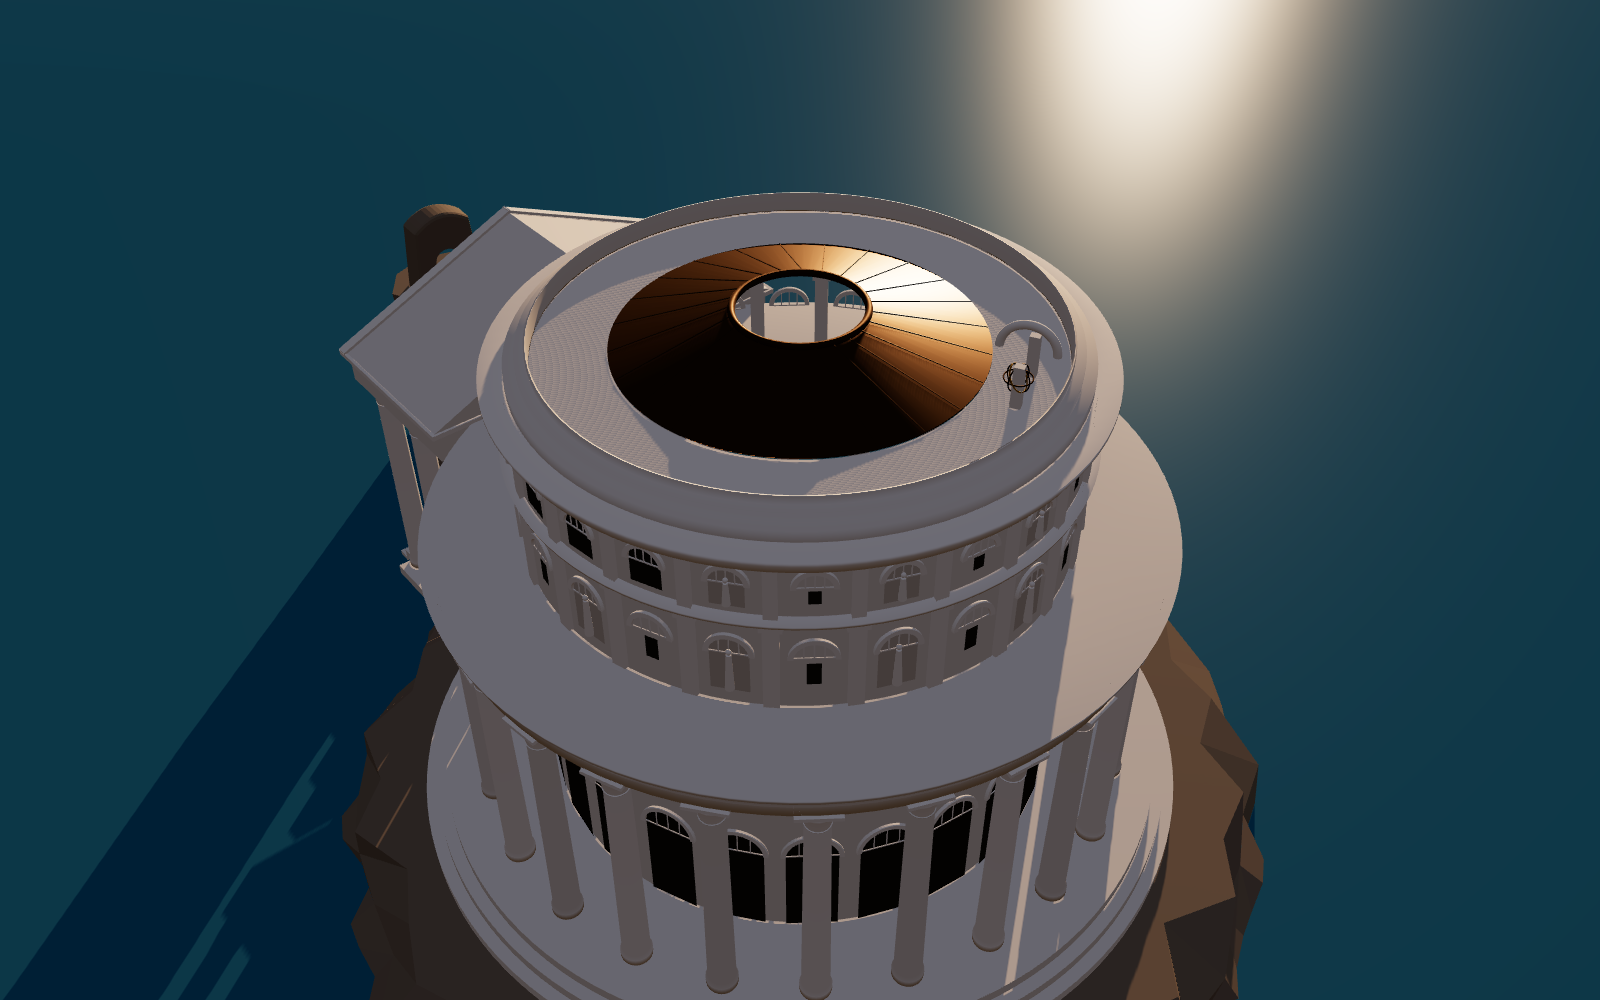
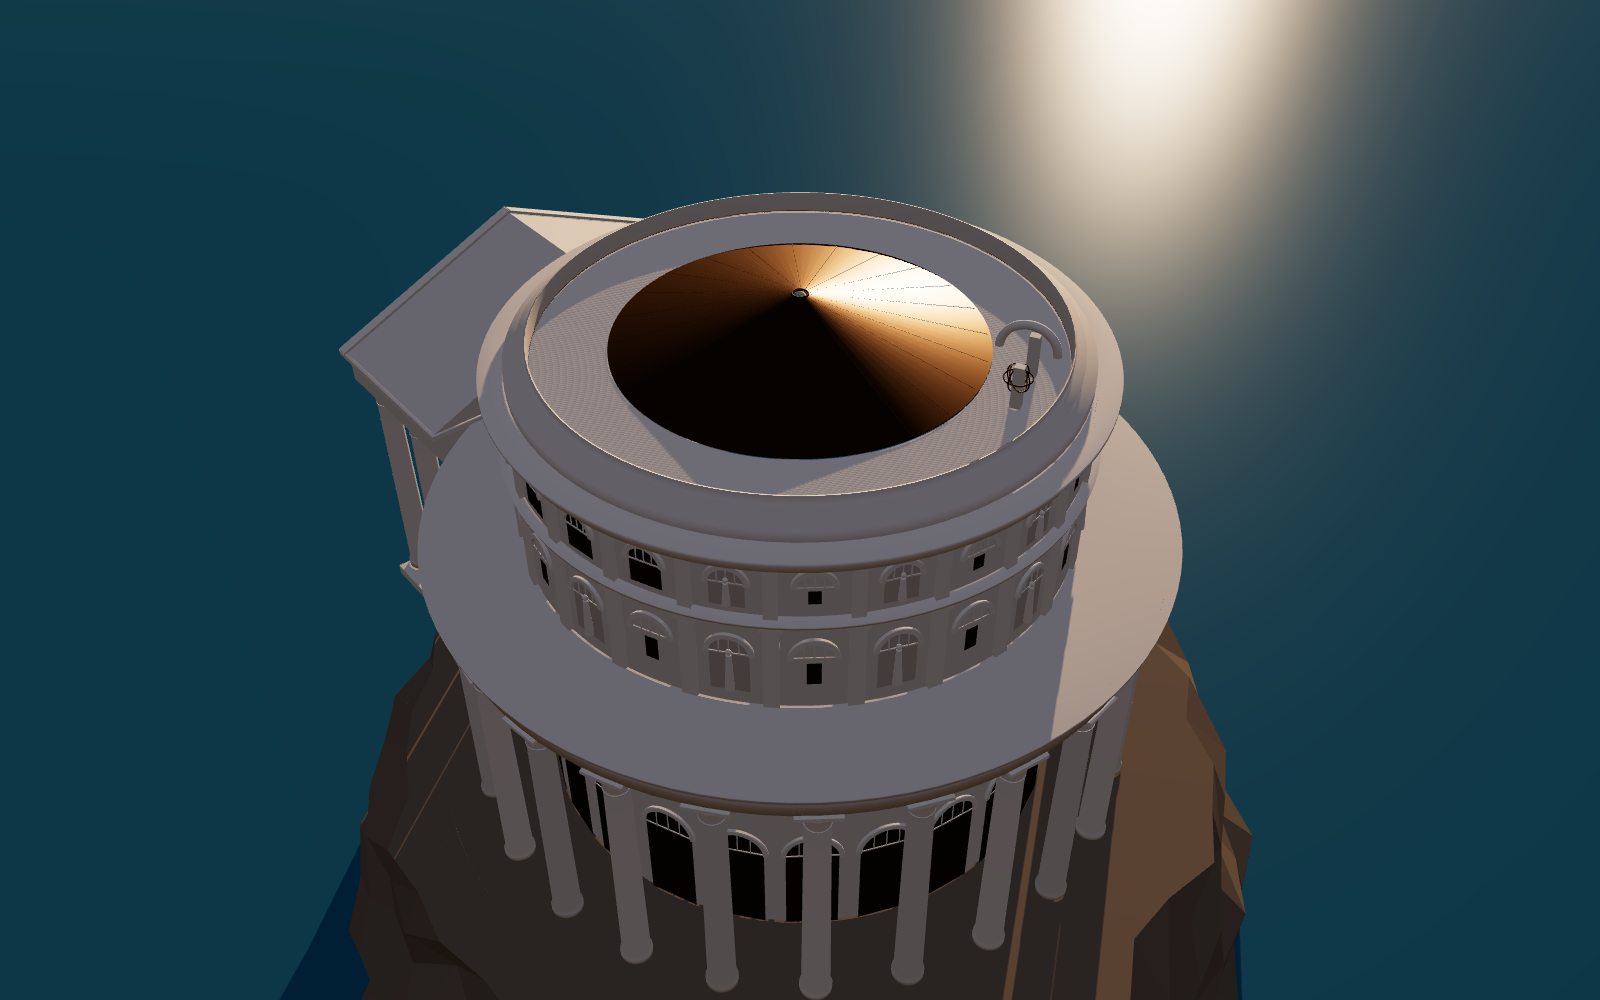
Massing model: temple on a cliff, low island to the north, sea gate beam, iris nearly closed; fixed time on the island
Claude-Session: https://claude.ai/code/session_0171D8K9nqfo8Qytrb4zsdXi

diff --git a/docs/img/exterior-model.html b/docs/img/exterior-model.html
@@ -14,7 +14,7 @@ function sunDir(Hd) { const h = Hd * DEG, dec = -21 * DEG, lat = 35 * DEG;
   const E = -Math.cos(dec) * Math.sin(h), N = Math.sin(dec) * Math.cos(lat) - Math.cos(dec) * Math.cos(h) * Math.sin(lat), U = Math.sin(dec) * Math.sin(lat) + Math.cos(dec) * Math.cos(h) * Math.cos(lat);
   return new V3(E, U, -N).normalize(); }
 const warm = view !== 'b';
-const sv = sunDir(warm ? 58 : 12);
+const sv = sunDir(warm ? 58 : 10);
 scene.add(new THREE.Mesh(new THREE.SphereGeometry(3000, 48, 24), new THREE.ShaderMaterial({ side: THREE.BackSide, depthWrite: false,
   uniforms: { uSun: { value: sv }, uWarm: { value: warm ? 1 : 0.2 } },
   vertexShader: `varying vec3 vD; void main(){ vD = normalize(position); gl_Position = projectionMatrix*modelViewMatrix*vec4(position,1.0); }`,
@@ -42,10 +42,10 @@ const lathe = (pts, seg = 96) => new THREE.LatheGeometry(pts.map(([r, y]) => new
 const RO = 17.1, F = [0, 11.34, 19.84, 26.22, 31.0];
 const RP = 21.6, NCOL = 24, CD = 1.76, CH = 17.6;          // 外圈巨柱：科林斯，柱高 10D，檐部顶面对齐 L2 楼面
 // 海、礁石台基
-add(new THREE.Mesh(new THREE.CircleGeometry(3000, 64).rotateX(-Math.PI / 2).translate(0, -6, 0), sea), false, true);
-{ const g = new THREE.CylinderGeometry(30, 36, 7, 44, 3); const p = g.attributes.position;
+add(new THREE.Mesh(new THREE.CircleGeometry(3000, 64).rotateX(-Math.PI / 2).translate(0, -16, 0), sea), false, true);
+{ const g = new THREE.CylinderGeometry(28.5, 31, 16.5, 44, 5); const p = g.attributes.position;
   for (let i = 0; i < p.count; i++) { const x = p.getX(i), z = p.getZ(i), y = p.getY(i); const n = 1 + 0.07 * Math.sin(x * 0.6 + y) * Math.cos(z * 0.45); p.setX(i, x * n); p.setZ(i, z * n); }
-  g.computeVertexNormals(); add(new THREE.Mesh(g.translate(0, -5.9, 0), rock)); }
+  g.computeVertexNormals(); add(new THREE.Mesh(g.translate(0, -8.1, 0), rock)); }
 // 基座台阶（crepidoma）
 for (const [r, y] of [[26.4, -2.4], [25.6, -1.6], [24.8, -0.8]]) add(new THREE.Mesh(new THREE.CylinderGeometry(r, r, 0.8, 128).translate(0, y + 0.4, 0), marble));
 // 殿身（圆形内殿）
@@ -94,10 +94,10 @@ add(new THREE.Mesh(lathe([[RP - 1.1, CH], [RP + 1.1, CH], [RP + 1.1, CH + 0.9], 
 add(new THREE.Mesh(lathe([[RO, F[4] - 0.8], [RO + 0.9, F[4] - 0.7], [RO + 1.3, F[4]], [RO + 1.3, F[4] + 0.3], [RO - 0.2, F[4] + 0.3]]), marbleL));
 add(new THREE.Mesh(lathe([[RO - 0.2, 31.3], [RO - 0.2, 32.0], [16.2, 32.0], [16.2, 32.6], [15.6, 32.6], [15.6, 33.1], [15.45, 33.1], [15.45, 31.3]]), marble));
 add(new THREE.Mesh(lathe([[11, 31.9], [15.45, 31.9], [15.45, 31.8], [11, 31.8]]), marbleL));               // 环道（静止时是平的）
-{ const iris = lathe([[3.9, 33.9], [11, 31.85], [11, 31.95], [3.9, 34.0]], 96); add(new THREE.Mesh(iris, bronze));
+{ const iris = lathe([[0.4, 34.9], [11, 31.85], [11, 31.95], [0.4, 35.0]], 96); add(new THREE.Mesh(iris, bronze));
   for (let k = 0; k < 24; k++) { const a = k * 15; const g = new THREE.BoxGeometry(0.06, 0.06, 7.4); const m = new THREE.Mesh(g, bronze);
-    const mid = P(a + 6, 7.45, 33.0); m.position.copy(mid); m.lookAt(P(a + 14, 3.9, 34.05)); add(m); }
-  add(new THREE.Mesh(new THREE.TorusGeometry(3.9, 0.22, 12, 64).rotateX(Math.PI / 2).translate(0, 34.05, 0), bronze)); }
+    g.dispose(); m.geometry = new THREE.BoxGeometry(0.06, 0.06, 10.6); const mid = P(a + 8, 5.7, 33.45); m.position.copy(mid); m.lookAt(P(a + 22, 0.45, 34.95)); add(m); }
+  add(new THREE.Mesh(new THREE.TorusGeometry(0.45, 0.08, 8, 32).rotateX(Math.PI / 2).translate(0, 35.0, 0), bronze)); }
 // 最高一级（西北偏北）：拱门与大浑天仪
 { const az = 332, c = P(az, 13.2, 31.9), n = new V3(Math.cos(az * DEG), 0, Math.sin(az * DEG));
   for (const s of [-1, 1]) { const pier = new THREE.Mesh(new THREE.BoxGeometry(0.5, 2.6, 0.6), marbleL); pier.position.copy(c).addScaledVector(n, s * 1.6).setY(33.2); pier.rotation.y = -az * DEG; add(pier); }
@@ -118,25 +118,36 @@ add(new THREE.Mesh(lathe([[11, 31.9], [15.45, 31.9], [15.45, 31.8], [11, 31.8]])
   const ped = new THREE.Mesh(new THREE.ExtrudeGeometry(tri, { depth: depth1 - depth0 + 2.6, bevelEnabled: false }), marble); ped.position.set(0, F[2] + 0.25, depth0 - 1); add(ped);
   for (const s of [-1, 1]) { const rake = new THREE.Mesh(new THREE.BoxGeometry(15.9, 0.4, 0.8), marbleL); rake.position.set(s * 7.15, F[2] + 3.35, depth1 + 1.4); rake.rotation.z = -s * Math.atan(6.2 / 14.3); add(rake); }
   const floor = new THREE.Mesh(new THREE.BoxGeometry(28.5, 0.8, 12), marble); floor.position.set(0, -0.4, depth0 + 5.2); add(floor);
-  for (let k = 0; k < 7; k++) { const st = new THREE.Mesh(new THREE.BoxGeometry(22, 0.8, 1.1), marble); st.position.set(0, -1.2 - k * 0.8, depth1 + 1.4 + k * 1.1); add(st); }
 }
-// 南边海上的石柱与天然石拱（序章）
-{ const az = 183, c = P(az, 52, 0);
-  const g = new THREE.CylinderGeometry(4.6, 6.0, 17, 9, 4); const p = g.attributes.position;
-  for (let i = 0; i < p.count; i++) { const x = p.getX(i), z = p.getZ(i), y = p.getY(i); const n = 1 + 0.12 * Math.sin(x * 1.3 + y) * Math.cos(z * 1.1); p.setX(i, x * n); p.setZ(i, z * n); }
-  g.computeVertexNormals(); const st = add(new THREE.Mesh(g, rock)); st.position.set(c.x, -6 + 8.5, c.z);
-  const fin = new THREE.Shape(); fin.moveTo(-2.8, 0); fin.lineTo(-2.3, 5.6); fin.quadraticCurveTo(0, 7.4, 2.3, 5.6); fin.lineTo(2.8, 0); fin.lineTo(-2.8, 0);
-  const hole = new THREE.Path(); hole.moveTo(-1.1, 0); hole.lineTo(-1.1, 2.4); hole.absarc(0, 2.4, 1.1, Math.PI, 0, true); hole.lineTo(1.1, 0); hole.lineTo(-1.1, 0); fin.holes.push(hole);
-  const fm = new THREE.Mesh(new THREE.ExtrudeGeometry(fin, { depth: 1.8, bevelEnabled: true, bevelSize: 0.3, bevelThickness: 0.3, bevelSegments: 2 }), rock);
-  fm.position.copy(P(az, 51.2, 11)); fm.rotation.y = Math.PI - az * DEG; add(fm); }
+// 北边低处的小岛、崖壁上的海门出口、出水，以及从海门穿出落到岛上的那束光（序章）
+{ const az = 12;
+  const g = new THREE.CylinderGeometry(4.5, 6.5, 3.2, 10, 2); const p = g.attributes.position;
+  for (let i = 0; i < p.count; i++) { const x = p.getX(i), z = p.getZ(i), y = p.getY(i); const n = 1 + 0.15 * Math.sin(x * 1.7 + y) * Math.cos(z * 1.3); p.setX(i, x * n); p.setZ(i, z * n); }
+  g.computeVertexNormals(); const isl = add(new THREE.Mesh(g, rock)); isl.position.copy(P(az, 45, -15.2));
+  // 海门出口：崖壁上的拱洞
+  const door = new THREE.Mesh(new THREE.ShapeGeometry(archShape(3.2, 2.4), 16), shade); door.position.copy(P(az, 29.7, -7.4)); door.rotation.y = Math.PI - az * DEG; door.rotation.x = -0.18; add(door);
+  const ring = new THREE.Shape(); ring.moveTo(-2.1, 2.4); ring.absarc(0, 2.4, 2.1, Math.PI, 0, true); ring.lineTo(1.6, 2.4); ring.absarc(0, 2.4, 1.6, 0, Math.PI, false); ring.lineTo(-2.1, 2.4);
+  const rm = new THREE.Mesh(new THREE.ExtrudeGeometry(ring, { depth: 0.5, bevelEnabled: false }), marble); rm.position.copy(P(az, 29.6, -7.4)); rm.rotation.y = Math.PI - az * DEG; rm.rotation.x = -0.18; add(rm);
+  // 出水：从海门旁泻进海里
+  const fall = new THREE.Mesh(new THREE.PlaneGeometry(2.2, 10), new THREE.MeshStandardMaterial({ color: 0xcfe6ee, transparent: true, opacity: 0.75, roughness: 0.2 }));
+  fall.position.copy(P(az + 6, 30.6, -11.0)); fall.rotation.y = Math.PI - (az + 6) * DEG; fall.rotation.x = -0.25; add(fall, false, false);
+  for (let k = 0; k < 40; k++) { const sp = new THREE.Mesh(new THREE.SphereGeometry(0.35 + (k % 3) * 0.15, 6, 4), new THREE.MeshBasicMaterial({ color: 0xffffff, transparent: true, opacity: 0.35 })); sp.position.copy(P(az + 4 + (k * 7) % 11 - 5, 31 + (k * 5) % 12, -15.7 + ((k * 3) % 5) * 0.3)); scene.add(sp); }
+  // 光：沿太阳的反方向（正午偏西的太阳 → 光朝北偏东），从海门斜着落到岛上
+  const sd = sunDir(10), dirH = new V3(-sd.x, 0, -sd.z).normalize(), slope = Math.asin(sd.y);
+  const start = P(az, 29.4, -6.6), len = (7.0 / Math.tan(slope)) / Math.cos(slope);
+  const beam = new THREE.Mesh(new THREE.BoxGeometry(2.6, 1.8, len), new THREE.MeshBasicMaterial({ color: 0xffdcaa, transparent: true, opacity: 0.6, depthWrite: false, blending: THREE.AdditiveBlending }));
+  const dir = new V3(-sd.x, -sd.y, -sd.z).normalize();
+  beam.position.copy(start).addScaledVector(dir, len / 2); beam.lookAt(start.clone().addScaledVector(dir, len)); scene.add(beam);
+  const spot = new THREE.Mesh(new THREE.CircleGeometry(1.6, 24).rotateX(-Math.PI / 2), new THREE.MeshBasicMaterial({ color: 0xffe6b8, transparent: true, opacity: 0.8 })); spot.position.copy(start.clone().addScaledVector(dir, len)).add(new V3(0, 0.05, 0)); scene.add(spot);
+}
 // 西边远处的岩岛
 { const s = new THREE.Shape(); const prof = [[-330, -6], [-300, 2], [-262, 18], [-205, 38], [-140, 54], [-120, 57], [130, 57], [178, 47], [232, 30], [300, 4], [335, -6]];
   s.moveTo(prof[0][0], prof[0][1]); for (const [x, y] of prof.slice(1)) s.lineTo(x, y);
   const m = new THREE.Mesh(new THREE.ExtrudeGeometry(s, { depth: 120, bevelEnabled: false }), M(0x7d7f8c, { roughness: 1 }));
-  m.position.copy(P(240, 463, 0)); m.rotation.y = -240 * DEG + Math.PI; scene.add(m); }
+  m.position.copy(P(240, 463, 0)); m.rotation.y = -240 * DEG + Math.PI; m.visible = view !== 'b'; scene.add(m); }
 const cam = new THREE.PerspectiveCamera(view === 'c' ? 38 : 32, W / H, 0.5, 5000);
 if (view === 'a') { cam.position.copy(P(222, 112, 24)); cam.lookAt(0, 15, 0); }
-else if (view === 'b') { cam.position.copy(P(163, 135, 10)); cam.lookAt(0, 14, 0); }
+else if (view === 'b') { cam.position.copy(P(28, 135, 8)); cam.lookAt(P(12, 12, 1)); }
 else { cam.position.copy(P(40, 70, 78)); cam.lookAt(0, 20, 0); }
 renderer.render(scene, cam);
 window.__done = true;

diff --git a/docs/proposal-v0.4.html b/docs/proposal-v0.4.html
@@ -211,13 +211,13 @@ rect.s-ink,path.s-ink,polygon.s-ink,circle.s-ink{stroke:var(--ink);stroke-width:
         <li>神殿建在崖上，小岛在它北边的低处，正好落在神殿的影子里。</li>
         <li>正午的阳光从南墙高处的一扇窗进来，斜穿中庭，钻进北侧地面上的海门，顺着穿过崖石的斜向阶梯出去，落到小岛上。神殿的瀑布水从海门旁泻进海里，水沫让这束光在影子里显形。</li>
         <li>玩家从岛上沿光往上走，走进海门，踩着被光照亮的阶梯一路往上，从水庭北侧的地面升上来。脚下的光，是从神殿里面送出来的。</li>
-        <li>第一课：在岛上绕着走，时间在变，光一会儿钻得进海门、一会儿被崖壁挡住；朝神殿走（沿半径），时间不动。</li>
+        <li>岛上和海门里的时间是固定的，走到哪里光都不动。这里只教一件事：看得见的光能踩。</li>
         <li>光在中庭里的那一段只看不走：它从阶梯井口的栏杆外升起，经过水面上方，回到南墙高处，那扇窗有铜栅。</li>
       </ul>
       <figure><div class="scroll"><svg viewBox="0 0 640 440" role="img" aria-label="开场的南北剖面：神殿建在崖上，小岛在北边低处，落在神殿的影子里。正午的阳光从南墙高处进来，斜穿中庭，钻进海门里的斜向阶梯，从崖壁穿出，落到小岛上；玩家从岛上沿光往上走，经海门登入神殿。"><polygon class="f-shadow" points="269.7,77.4 784.9,412 269.7,412"/><rect class="f-water" x="10" y="412" width="630" height="24"/><path class="f-stone s-ink" d="M10 300 L318 300 L339 342 L332 377 L353 412 L10 412 Z"/><path class="f-stone s-ink" d="M388 412 L395 395.2 L430 392.4 L458 412 Z"/><rect class="f-stone s-ink" x="30.3" y="77.4" width="11.2" height="222.6"/><rect class="f-stone s-ink" x="258.5" y="77.4" width="11.2" height="222.6"/><rect class="f-stone s-ink" x="41.5" y="220.6" width="23.2" height="3.5"/><rect class="f-stone s-ink" x="235.3" y="220.6" width="23.2" height="3.5"/><rect class="f-stone s-ink" x="41.5" y="161.1" width="23.2" height="3.5"/><rect class="f-stone s-ink" x="235.3" y="161.1" width="23.2" height="3.5"/><rect class="f-stone s-ink" x="41.5" y="116.5" width="23.2" height="3.5"/><rect class="f-stone s-ink" x="235.3" y="116.5" width="23.2" height="3.5"/><rect class="f-stone s-ink" x="30.3" y="77.4" width="239.4" height="5.6"/><rect class="f-water" x="81.8" y="300" width="136.5" height="12.6"/><rect class="f-open s-ink" x="30.3" y="165.6" width="11.2" height="15.4"/><line class="s-ink" x1="30.3" y1="177.5" x2="41.5" y2="177.5"/><line class="s-ink" x1="30.3" y1="172.6" x2="41.5" y2="172.6"/><line class="s-ink" x1="30.3" y1="167.7" x2="41.5" y2="167.7"/><polygon class="f-open" points="236.8,298.6 259.2,298.6 336.2,337.4 336.2,362.6"/><line class="s-ink" x1="241" y1="298" x2="251.5" y2="298"/><line class="s-ink" x1="251.5" y1="304.8" x2="262" y2="304.8"/><line class="s-ink" x1="262" y1="311.6" x2="272.5" y2="311.6"/><line class="s-ink" x1="272.5" y1="318.4" x2="283" y2="318.4"/><line class="s-ink" x1="283" y1="325.2" x2="293.5" y2="325.2"/><line class="s-ink" x1="293.5" y1="332.1" x2="304" y2="332.1"/><line class="s-ink" x1="304" y1="338.9" x2="314.5" y2="338.9"/><line class="s-ink" x1="314.5" y1="345.7" x2="325" y2="345.7"/><line class="s-ink" x1="325" y1="352.5" x2="335.5" y2="352.5"/><polygon class="f-sun" points="41.5,168.4 41.5,155.8 397.8,387.2 397.8,399.8"/><line class="s-sun" x1="41.5" y1="168.4" x2="397.8" y2="399.8"/><line class="s-sun-thin" x1="-158" y1="48" x2="-102" y2="84.4"/><line class="s-sun-thin" x1="-130" y1="48" x2="-74" y2="84.4"/><line class="s-sun-thin" x1="-102" y1="48" x2="-46" y2="84.4"/><path class="f-fall" d="M333.4 366.5 Q349.5 377 356.5 412 L344.6 412 Q340.4 384 332 372.8 Z"/><circle class="f-mist" cx="346" cy="409.2" r="1.5"/><circle class="f-mist" cx="383.1" cy="387.5" r="1.5"/><circle class="f-mist" cx="364.2" cy="388.2" r="1.5"/><circle class="f-mist" cx="401.3" cy="388.9" r="1.5"/><circle class="f-mist" cx="382.4" cy="389.6" r="1.5"/><circle class="f-mist" cx="363.5" cy="390.3" r="1.5"/><circle class="f-mist" cx="400.6" cy="391" r="1.5"/><circle class="f-mist" cx="381.7" cy="391.7" r="1.5"/><circle class="f-mist" cx="362.8" cy="392.4" r="1.5"/><circle class="f-mist" cx="399.9" cy="393.1" r="1.5"/><circle class="f-mist" cx="381" cy="393.8" r="1.5"/><circle class="f-mist" cx="362.1" cy="394.5" r="1.5"/><circle class="f-mist" cx="399.2" cy="395.2" r="1.5"/><circle class="f-mist" cx="380.3" cy="395.9" r="1.5"/><circle class="f-mist" cx="361.4" cy="396.6" r="1.5"/><circle class="f-mist" cx="398.5" cy="397.3" r="1.5"/><circle class="f-mist" cx="379.6" cy="398" r="1.5"/><circle class="f-mist" cx="360.7" cy="398.7" r="1.5"/><circle class="f-mist" cx="397.8" cy="399.4" r="1.5"/><circle class="f-mist" cx="378.9" cy="400.1" r="1.5"/><circle class="f-mist" cx="360" cy="400.8" r="1.5"/><circle class="f-mist" cx="397.1" cy="401.5" r="1.5"/><circle class="f-mist" cx="378.2" cy="402.2" r="1.5"/><circle class="f-mist" cx="359.3" cy="402.9" r="1.5"/><circle class="f-ink" cx="412.5" cy="379.8" r="3"/><line class="s-ink" x1="412.5" y1="381.9" x2="412.5" y2="392.4"/><text class="t-sun" x="17" y="37.5" text-anchor="start">正午的太阳约 33°，在南边</text><text class="t-small" x="24" y="151.6" text-anchor="start">光的来处（铜栅，进不去）</text><text class="t-dim" x="150" y="212.5" text-anchor="middle">中庭</text><text class="t-small" x="290" y="331.5" text-anchor="start">海门里的斜向阶梯</text><text class="t-ink" x="419.5" y="430.2" text-anchor="middle">海上的小岛</text><text class="t-small" x="472" y="338.5" text-anchor="start">神殿的影子</text><text class="t-water" x="360" y="371.4" text-anchor="start">出水与水沫</text><text class="t-dim" x="17" y="430" text-anchor="start">南</text><text class="t-dim" x="626" y="430" text-anchor="end">北</text></svg></div><figcaption>图 4 · 开场的南北剖面（南在左）。小岛在神殿的影子里，光从神殿里面穿出来落到岛上，所以是从低处沿光走上去、登入神殿。</figcaption></figure>
     </div></div>
     <div class="lv d"><div class="h"><b>日1 · 正午·水庭</b><span>水庭：北 → 东北</span><i>太阳 33° → 32°</i></div><div class="b"><ul>
-      <li><b>子午线</b>：南墙高处一个小孔，太阳的圆斑落在东北地面一条嵌铜的时辰线上（ΣΤ Ζ Η Θ），随脚步滑动，把人领到瀑布前。</li>
+      <li><b>子午线</b>：南墙高处一个小孔，太阳的圆斑落在东北地面一条嵌铜的时辰线上（ΣΤ Ζ Η Θ），随脚步滑动，把人领到瀑布前。这是第一次教"沿弧走，时间流动；沿半径走，时间不变"。</li>
       <li><b>第一道虹</b>：瀑布的水沫被南边来的光照亮，背对太阳看过去，水沫里有一道小彩虹。</li>
       <li><b>第一束光</b>：从 L1 东南的主光窗斜穿中庭东侧，落到水庭东北。它是一条偏在一侧的弦，走在上面光会跟着时间摆动。</li>
       <li>水面的波光映在拱顶上。</li>
